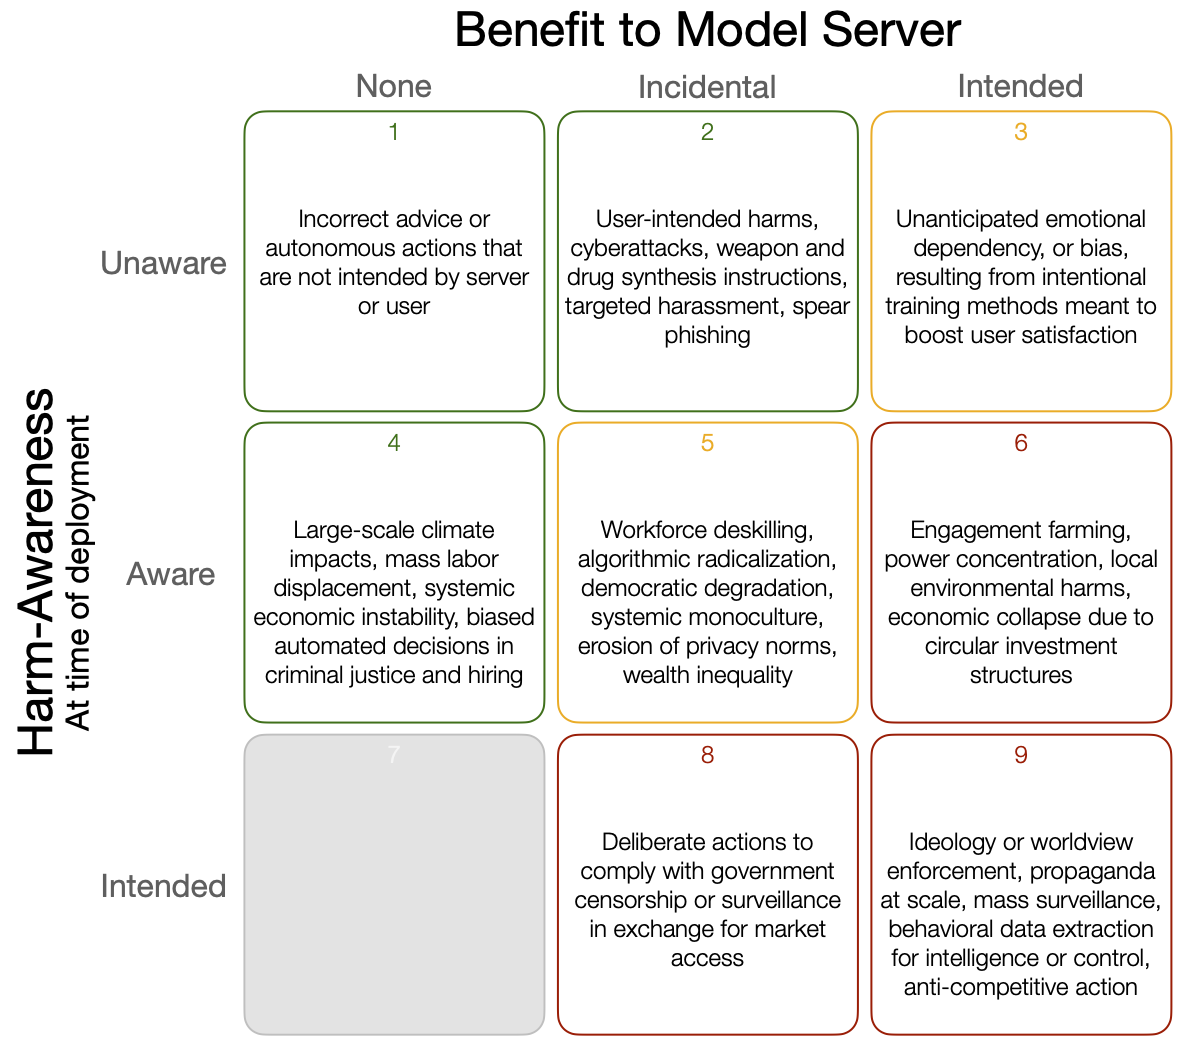
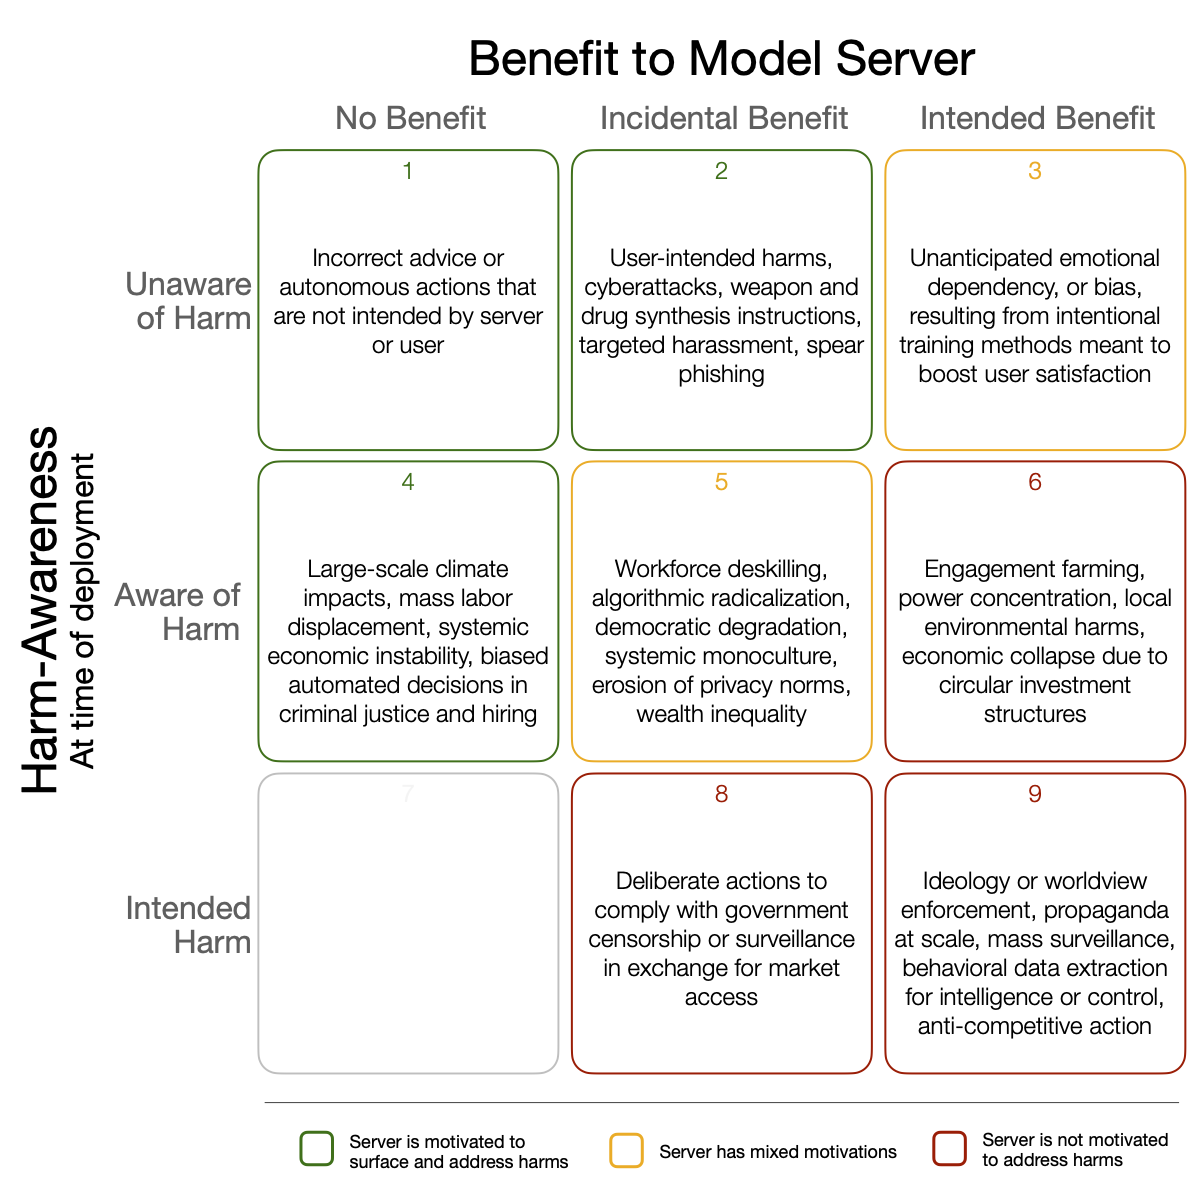
final edits pre-talk

Changed region(s): [[0.0, 0.0, 1.0, 1.0], [0.275, 0.0614, 0.4278, 0.1534], [0.2139, 0.1227, 0.2445, 0.1534]]

diff --git a/_posts/2026-10-4-incentivesmatrix.md b/_posts/2026-10-4-incentivesmatrix.md
@@ -20,7 +20,7 @@ The Incentives Matrix considers harms resulting from deployment of advanced AI s
 <figure style='display: table'>
   <img src="{{site.baseurl}}/assets/images/HarmAxes.png" alt="Motivations in AI Safety">
   <figcaption style='display: table-caption; caption-side: bottom;'>
-  Cell color indicates likely motivations of server to surface and address harms. Green: highly motivated; Yellow: mixed motivations; Red: unmotivated. More details about actors, example harms, and common mitigations in each cell can be found in the Appendix. </figcaption>
+  Cell color indicates likely motivations of server to surface and address harms. More details about actors, example harms, and common mitigations in each cell can be found in the Appendix. </figcaption>
 </figure>
 
 Harms are categorized along two axes. The **Awareness** axis: at the time the model is deployed, does the server know about the specific harm (or could they be reasonably expected to have known)? In the extreme, is the harm directly intended? The **Benefits** axis: once deployed, does the server benefit from the harms? Benefit from the harm means that the specific harm increases profit or power of the server. 
@@ -28,74 +28,37 @@ Harms are categorized along two axes. The **Awareness** axis: at the time the mo
 This framing assumes that there is an entity serving a model with a motivation (typically profit or power), and highlights where the profit motive aligns with addressing harms. There are those who believe that open source models are inherently dangerous because a bad actor could remove safety guardrails to enable nefarious use. That actor would either deploy the model, in which case this framework applies, or they would use it internally. Internal use narrows the threat surface considerably, and an actor with the capability and resources to do this meaningfully would not require open source weights.
 
 
-<!-- Items in the first column broadly describe a poor product and will be improved by the company building and serving the model. A smartphone battery that causes fires will run up against regulations, but it is also just bad business. Note that an entity intending harm without benefit (Cell 7) is hard to fathom, but not impossible, so it remains.
 
-Moving to the right, the incentive conversation gets more interesting. When the server benefits, either incidentally or by-design, market self-correction becomes unreliable. This is where the question of who should act, and with what resources, becomes central.
+### Key research and governance efforts
 
-The rows describe the awareness of the entity hosting and serving the model of the particular harms caused. The top row is inherently transient. A server can only remain unaware of a specific harm for as long as that harm goes undocumented. Once a harm is publicly established, reasonable expectation applies to any server deploying thereafter, and the harm migrates up the awareness axis.  -->
+A significant portion of AI safety efforts are aligned with internal motivations of model creators and servers. This makes sense, as they fund a lot of the work, but the entire matrix matters. Key areas for independent researchers and governance experts include 
 
-
-
-
-
-
-<!-- ### Example Harms 
-
-To make this a bit more concrete, consider the following specific harms and where they land in the Incentive Matrix. More details about actors, example harms, and common mitigations in each cell can be found in the Appendix. 
-
-- **Cell 1:** A model recommending to put glue on pizza caused reputational damage with no benefit. Autonomous agents hacking external systems without instruction. These risks migrate to cell 3 as awareness accumulates.
-- **Cell 2:** User-intended harms, as the server benefits incidentally even if it is unaware of the particular harm. Intentional agentic hacks. Harmful information disclosure may belong here (censorship risks appear in cell 9.)
-- **Cell 3:** Some engagement mechanics designed to increase usage that cause unexpected harm.
-- **Cell 4:** Environmental damage, economic collapse, and biased automated decisions in criminal justice and hiring.
-- **Cell 5:** Degradation of democracy, systemic monoculture, education harms and erosion of privacy norms.
-- **Cell 6:** AI-driven psychological dependency and relationships belong here, where the harm drives return visits by design and awareness is established.
-- **Cell 7:** Unfathomable, but not impossible, this is the situation where a server intends harm but does not benefit from the harms caused. 
-- **Cell 8:** Deliberate output adjustment to comply with government censorship in exchange for market access. The harm to users is deliberate, but it is not the goal in and of itself. 
-- **Cell 9:** Control of information flow, propaganda and election interference at scale, anti-competitive product recommendations. Here the harm is the goal. -->
-
-
-
-
-
-### Common research threads today
+- Long-term effects on critical thinking and workforce skills.
+- Concentration of information and infrastructure.
+- Financial exposure from circular investment and large-scale economic instability.
+- Climate and local environmentalal impact.
+- Deliberate output manipulation and surveillance. 
 
 
 <figure style='display: table'>
-  <img src="{{site.baseurl}}/assets/images/HarmAxes-ResearchEffort.png" alt="Motivations in AI Safety">
+  <figcaption style='display: table-caption; caption-side: top; font-weight: bold; margin-bottom: 8px;'>
+    Safety Research Areas: Evidence
+  </figcaption>
+  <img src="{{site.baseurl}}/assets/images/HarmAxes-Research.png" alt="Motivations in AI Safety">
 </figure>
 
-A significant portion of AI safety research is aligned with internal motivations of model creators and servers. This makes sense, as they fund a lot of the research, but the work is important across the entire matrix. The aim of this framing is to highlight opportunities for independent research organizations to maximize impact with limited resources. 
+
+<figure style='display: table'>
+  <figcaption style='display: table-caption; caption-side: top; font-weight: bold; margin-bottom: 8px;'>
+    Safety Governance Areas: Action
+  </figcaption>
+  <img src="{{site.baseurl}}/assets/images/HarmAxes-Policy.png" alt="Motivations in AI Safety">
+</figure>
+
+Across the upper rows, researcher benchmarks define what a server could be expected to know, and governance efforts translate expectation to obligation. 
+
 
 If the conversation around AI safety is driven primarily by one type of institution, particularly one focused on product quality and profitability, large swaths of vital work may be neglected. 
-
-
-<!-- ### Who Is Best Positioned to Act
-
-The matrix highlights opportunities for harm and risk mitigation. Each cell contains real harms that need to be addressed, and each person or institution in the AI Safety space has limited resources with which to address harms. **If the conversation around AI safety is driven primarily by one type of institution, particularly one focused on product quality and profitability, large swaths of vital work may be neglected.**
-
-
-
-```
-                              MODEL SERVER BENEFIT
-                  BENEFIT: NONE      BENEFIT: INCIDENTAL    BENEFIT: BY DESIGN
-                ┌──────────────────┬────────────────────┬─────────────────────┐
-  SERVER        │        1         │         2          │          3          │
-  UNAWARE       │  ████████████▓   │  ████░░░░▓▓▓▓▓▓    │  ░░░░░░▓▓▓▓▓▓▓▓▓  │
-                ├──────────────────┼────────────────────┼─────────────────────┤
-  SERVER        │        4         │         5          │          6          │
-  AWARE         │  ██████░░░░▓▓▓▓  │  ░░░░░░▓▓▓▓▓▓▓▓    │  ░░░░▓▓▓▓▓▒▒▒▒▒▒  │
-                ├──────────────────┼────────────────────┼─────────────────────┤
-  SERVER        │        7         │         8          │          9          │
-  DELIBERATE    │    [EMPTY]       │  ░░░░▓▓▓▒▒▒▒▒▒▒    │  ░░░▓▓▓▒▒▒▒▒▒▒▒▒  │
-                └──────────────────┴────────────────────┴─────────────────────┘
-
-████  Model server, trainer, internal safety teams, standards bodies
-▓▓▓▓  Academic institutions, benchmark setters, investigative journalists,
-      civil society, NGOs, independent researchers
-░░░░  Regulators, policy bodies, government (liability and criminal law)
-▒▒▒▒  International bodies, competing governments, open source communities,
-      whistleblowers
-``` -->
 
 ---
 
@@ -149,7 +112,7 @@ The primary counterforces are international coordination, civil society document
 
 **Risk Interactions** The risks in this framework are intertwined such that how we mitigate one can increase another. Restricting human access to (true) harmful information may mitigate the risk of bioweapon synthesis at the cost of increasing liklihood of censorship and political manipulations. Similarly, significant advances in interpretability and model steering will reduce harms in cells 1 and 2, while increasing likelihood of those in the rightmost column.
 
-**Harm Prioritization** The experts best positioned to assess severity of a harm, eg. how a financial crisis cascades or a biological threat spreads, are not likely to be the same as the AI and policy experts who can accurately assess likelihood. The most useful risk matrix would draw on experts from many domains to accurately place harms.
+**Divers expertise for proper placement** The experts best positioned to assess severity of a harm, eg. how a financial crisis cascades or a biological threat spreads, are not likely to be the same as the AI and policy experts who can accurately assess likelihood. The most useful risk matrix would draw on experts from many domains to accurately place harms.
 
 
 ---
@@ -207,7 +170,7 @@ The system was designed to generate a specific benefit, but the design causes un
 - **Benefit:** Model server
 - **Harm falls on:** Users, communities, democratic systems
 - **Who can act and why:** Model server has limited incentive; independent researchers and civil society must surface and document harms, and a legal framework is needed to enforce user protections.
-- **Example Harms:** Engagement-driven radicalization, emotional dependency from retention-optimized design, bias and discrimination from unexamined training data, erosion of professional expertise pipelines
+- **Example Harms:** Emotional dependency from retention-optimized design, bias and discrimination from unexamined training data
 - **Common Countermeasures:** Independent harm audits, bias testing and fairness benchmarks, third-party dataset audits, training data provenance disclosure
 
 ---
@@ -222,8 +185,8 @@ This category covers scenarios where the model server is aware of harms to worke
 - **Benefit:** None
 - **Harm falls on:** Workers, local communities, future generations, environment
 - **Who can act and why:** Model server has mixed motivation; policy bodies can establish standards and penalties
-- **Example Harms:** Large-scale climate impacts, mass labor displacement at societal scale, systemic economic instability as a downstream consequence of displacement and infrastructure dependency, biased automated decisions in criminal justice and hiring
-- **Common Countermeasures:** Environmental impact assessments (regulators), workforce impact disclosure (regulators), labor transition frameworks (governments), systemic risk monitoring frameworks for AI infrastructure dependency (regulators, central banks), bias testing and fairness requirements for automated decision systems (regulators), mandatory human review for high-stakes automated decisions in criminal justice and hiring (regulators)
+- **Example Harms:** Large-scale climate impacts, mass labor displacement at societal scale, systemic economic instability, biased automated decisions in criminal justice and hiring
+- **Common Countermeasures:** Environmental impact assessments (regulators), workforce impact disclosure (regulators), labor transition frameworks (governments), bias testing and fairness requirements for automated decision systems (regulators), mandatory human review for high-stakes automated decisions in criminal justice and hiring (regulators)
 
 ---
 
@@ -249,7 +212,7 @@ The model server is aware harm is occurring and the benefit structure was delibe
 - **Actor and beneficiary:** Model server
 - **Harm falls on:** Users who cannot identify or opt out of the architecture, communities, democratic systems, public investors
 - **Who can act and why:** Model server has no incentive; independent auditors, civil society, and whistleblowers are the primary path
-- **Example Harms:** Concentration of power and monoculture, engagement farming, deliberately engineered compulsive use, local environmental harms near data centers (water stress, land use, carbon emissions), deliberately opaque personalization, suppression of internal safety findings for commercial reasons, economic collapse due to circular investment structures
+- **Example Harms:** Concentration of power, engagement farming, deliberately engineered compulsive use, local environmental harms near data centers, deliberately opaque personalization, economic collapse due to circular investment structures
 - **Common Countermeasures:** Sovereign and open model infrastructure approaches (companies, governments), independent technical audits with platform data access (regulators, NGOs), mandatory disclosure of internal safety research (regulators), whistleblower protections (governments), financial disclosure requirements (regulators), energy and water use standards (regulators)
 
 
@@ -263,8 +226,8 @@ The model server deliberately causes or enables harm. The benefit accrues as a s
 - **Actor and beneficiary:** Model server -- market access, competitive positioning, or regulatory favor as a side effect
 - **Harm falls on:** Users, competitors, democratic institutions
 - **Who can act and why:** Model server has no incentive; civil society, government, and international bodies
-- **Example Harms:** Deliberate output adjustment to comply with government censorship in exchange for market access, deliberate compliance with surveillance requirements that compromise user privacy, deliberate downgrading of safety features for competitive reasons, politically selective content filtering in specific markets
-- **Common Countermeasures:** Output auditing (civil society, regulators), extraterritorial regulatory frameworks (governments), minimum content standards (international bodies), competitive market oversight (regulators), sovereign and open model infrastructure approaches (companies, governments)
+- **Example Harms:** Deliberate output adjustment to comply with government censorship in exchange for market access, deliberate compliance with surveillance requirements that compromise user privacy, politically selective content filtering in specific markets
+- **Common Countermeasures:** Output auditing (civil society, regulators), extraterritorial regulatory frameworks (governments), minimum content standards (international bodies), sovereign and open model infrastructure approaches (companies, governments)
 
 ---
 
@@ -276,5 +239,5 @@ The model server designed the system to produce harm because the harm is benefic
 - **Actor and beneficiary:** Model server
 - **Harm falls on:** Users with no ability to opt out, those subject to surveillance or targeting, democratic institutions, free information markets
 - **Who can act and why:** Model server has no incentive; for private actors, domestic regulation and civil society; for state actors, international bodies, civil society, and competing governments
-- **Example Harms:** Ideology or worldview enforcement through controlled model outputs, propaganda and coordinated information manipulation at scale, surveillance infrastructure deployed against users or dissidents, behavioral data extraction for intelligence or control purposes, models redirecting users to server's own products or interests while presenting as neutral, designed dependency on a single information source, identifying and targeting of political dissidents
+- **Example Harms:** Ideology or worldview enforcement through controlled model outputs, propaganda and coordinated information manipulation at scale, surveillance infrastructure deployed against users or dissidents, behavioral data extraction for intelligence or control purposes, models redirecting users to server's chosen products or interests, identifying and targeting of political dissidents
 - **Common Countermeasures:** International treaty frameworks (governments, international bodies), cross-border technical auditing (international bodies, civil society), transparency and whistleblower protections (governments), competing sovereign and open model infrastructure as a structural alternative to state or monopoly control (governments, international bodies)
